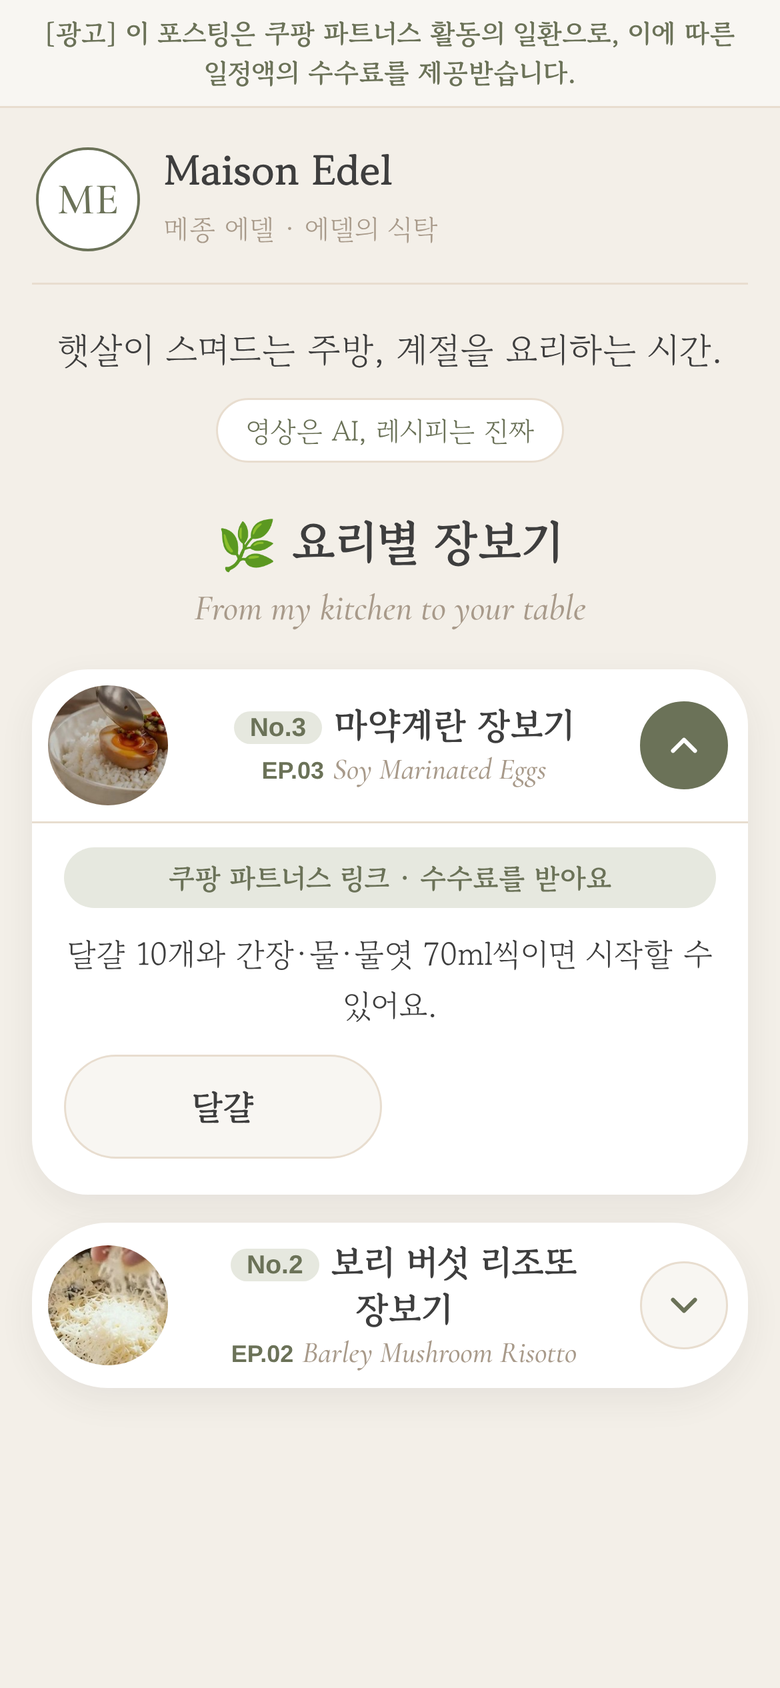
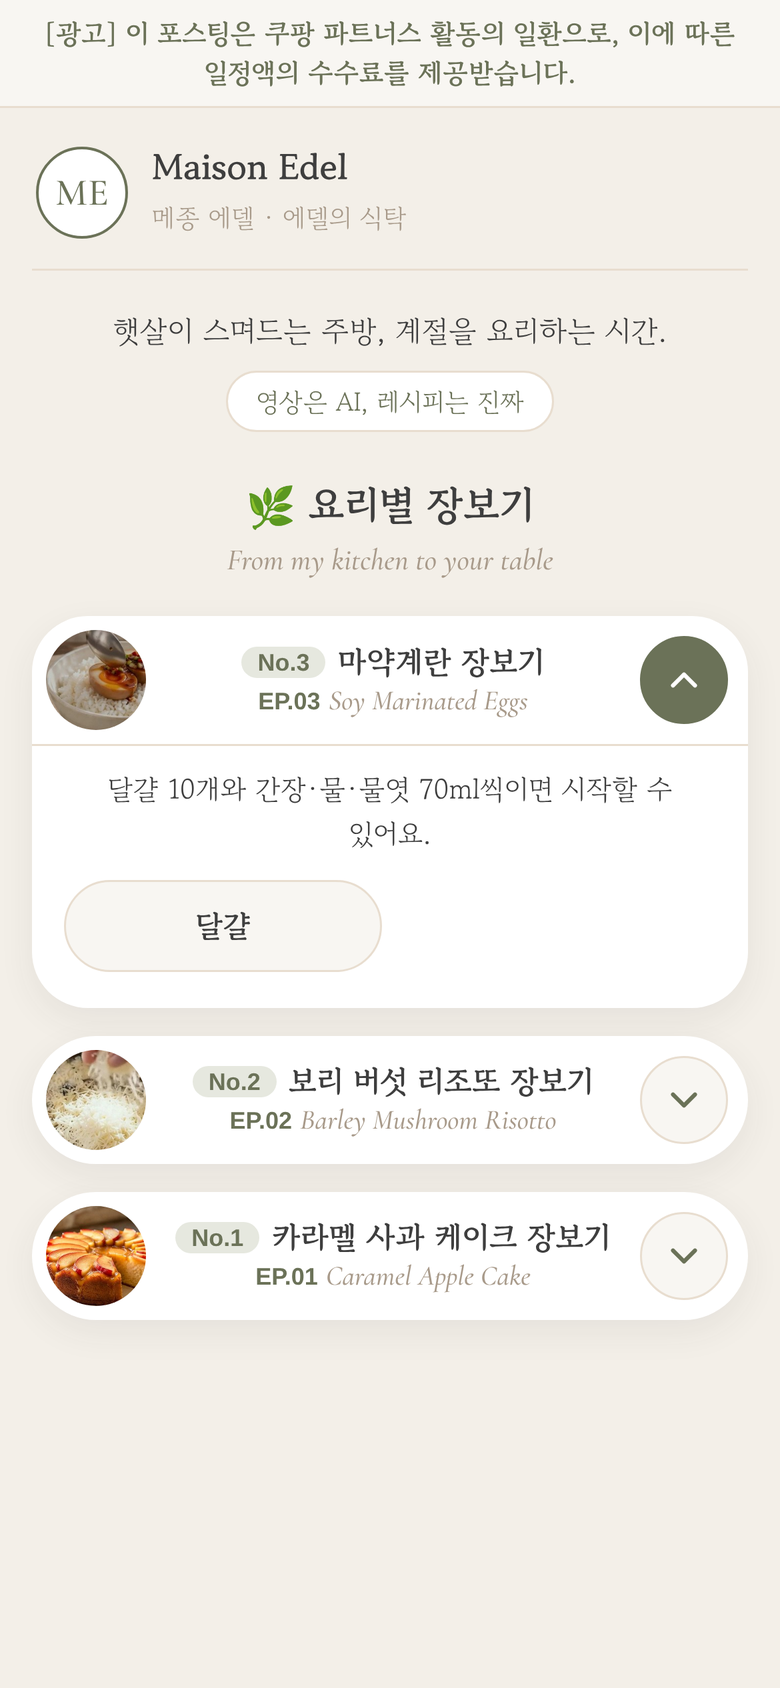
장보기 페이지 글씨 한 단계 줄이기
Claude-Session: https://claude.ai/code/session_01Ethqw5r7mmktrKzGmpSNVy

Changed region(s): [[0.0308, 0.1848, 0.9538, 0.8318], [0.0308, 0.0924, 0.5538, 0.154]]

diff --git a/company/초안/메종에델-장보기/index.html b/company/초안/메종에델-장보기/index.html
@@ -27,7 +27,7 @@
   body {
     margin: 0; color: var(--charcoal); background: var(--page);
     font-family: "Gowun Batang", "Apple SD Gothic Neo", "Malgun Gothic", serif;
-    font-size: 18px; line-height: 1.6; word-break: keep-all;
+    font-size: 16px; line-height: 1.6; word-break: keep-all;
   }
   a { color: inherit; }
   .en { font-family: "Cormorant Garamond", Georgia, serif; font-style: italic; }
@@ -45,18 +45,18 @@
 
   /* 이름 줄 */
   .head { display: flex; align-items: center; gap: 12px; padding: 18px 2px 14px; border-bottom: 1px solid var(--beige); }
-  .mark { flex: none; width: 52px; height: 52px; border-radius: 50%; background: var(--white);
+  .mark { flex: none; width: 46px; height: 46px; border-radius: 50%; background: var(--white);
           font-family: "Cormorant Garamond", Georgia, serif; font-style: normal; font-weight: 500; line-height: 1; letter-spacing: .02em; text-indent: .02em;
           border: 1.5px solid var(--olive); display: flex; align-items: center; justify-content: center;
-          color: var(--olive); font-size: 22px; }
+          color: var(--olive); font-size: 19px; }
   .head .name { flex: 1; }
-  .head .name b { display: block; font-size: 21px; line-height: 1.25; }
-  .head .name span { font-size: 14px; color: var(--taupe); }
+  .head .name b { display: block; font-size: 18px; line-height: 1.25; }
+  .head .name span { font-size: 13px; color: var(--taupe); }
 
   .intro { text-align: center; padding: 18px 0 6px; }
   .intro p { margin: 0; }
-  .intro .slogan { font-size: 18px; }
-  .intro .ai { display: inline-block; margin-top: 10px; font-size: 14px; white-space: nowrap; color: var(--olive);
+  .intro .slogan { font-size: 15px; }
+  .intro .ai { display: inline-block; margin-top: 8px; font-size: 13px; white-space: nowrap; color: var(--olive);
                background: var(--white); border: 1px solid var(--beige); border-radius: 999px; padding: 4px 14px; }
 
   /* 카드 공통: 흰 카드, 크게 둥근 모서리, 엷은 그림자 */
@@ -65,36 +65,36 @@
 
   /* 요리별 장보기 */
   .shop-head { text-align: center; margin-top: 14px; }
-  .shop-head h2 { font-size: 24px; margin: 0; }
-  .shop-head .en { color: var(--taupe); font-size: 18px; margin: 0; }
+  .shop-head h2 { font-size: 20px; margin: 0; }
+  .shop-head .en { color: var(--taupe); font-size: 15px; margin: 0; }
 
   /* 요리 블록: 알약 모양 (왼쪽 동그란 작은 사진 + 가운데 요리 이름 + 오른쪽 ⌄), 누르면 아래로 재료 버튼이 펼쳐짐 */
   .dish { overflow: hidden; border-radius: 38px; }
   .dish[open] { border-radius: 28px; }
   .dish summary { list-style: none; cursor: pointer; display: flex; align-items: center; gap: 10px;
-                  min-height: 76px; padding: 8px 10px 8px 8px; -webkit-tap-highlight-color: transparent; }
+                  min-height: 64px; padding: 7px 10px 7px 7px; -webkit-tap-highlight-color: transparent; }
   .dish summary::-webkit-details-marker { display: none; }
-  .dish .thumb { flex: none; width: 60px; height: 60px; border-radius: 50%; overflow: hidden; background: var(--ivory); }
+  .dish .thumb { flex: none; width: 50px; height: 50px; border-radius: 50%; overflow: hidden; background: var(--ivory); }
   .dish .thumb img { width: 100%; height: 100%; object-fit: cover; display: block; }
   .dish .tt { flex: 1; text-align: center; line-height: 1.3; }
-  .dish .tt b { display: block; font-size: 18px; }
-  .dish .sub { display: block; font-size: 14px; color: var(--taupe); }
+  .dish .tt b { display: block; font-size: 15.5px; }
+  .dish .sub { display: block; font-size: 13px; color: var(--taupe); }
   .dish .sub .ep { font-family: Arial, sans-serif; font-size: 12px; font-weight: 700; color: var(--olive); }
-  .dish .sub .en { font-size: 15px; }
+  .dish .sub .en { font-size: 14px; }
   .dish .chev { flex: none; width: 44px; height: 44px; border-radius: 50%; background: var(--ivory); border: 1px solid var(--beige);
                 display: flex; align-items: center; justify-content: center; color: var(--olive); transition: transform .25s ease; }
   .dish .chev svg { width: 22px; height: 22px; }
   .dish[open] .chev { transform: rotate(180deg); background: var(--olive); border-color: var(--olive); color: var(--white); }
   .dish .body { padding: 0 16px 18px; border-top: 1px solid var(--beige); }
-  .dish .say { margin: 10px 0 12px; font-size: 16px; text-align: center; }
+  .dish .say { margin: 10px 0 12px; font-size: 14px; text-align: center; }
   .items { list-style: none; margin: 0; padding: 0; display: grid; grid-template-columns: 1fr 1fr; gap: 8px; }
   .item { display: flex; flex-direction: column; align-items: center; justify-content: center; text-align: center;
-          min-height: 52px; padding: 6px 10px; border-radius: 999px;
+          min-height: 46px; padding: 6px 10px; border-radius: 999px;
           background: var(--ivory); border: 1px solid var(--beige);
-          text-decoration: none; font-size: 17px; font-weight: 700; line-height: 1.25; }
-  .items-empty { margin: 0; text-align: center; font-size: 15px; color: var(--taupe); }
+          text-decoration: none; font-size: 15px; font-weight: 700; line-height: 1.25; }
+  .items-empty { margin: 0; text-align: center; font-size: 14px; color: var(--taupe); }
 
-  .dish .tt b .no { font-family: Arial, sans-serif; font-size: 13px; font-weight: 700; color: var(--olive);
+  .dish .tt b .no { font-family: Arial, sans-serif; font-size: 12px; font-weight: 700; color: var(--olive);
                     background: var(--olive-soft); border-radius: 999px; padding: 1px 8px; margin-right: 6px; vertical-align: 2px; }
   .dish { scroll-margin-top: 80px; }
   .dish.flash { animation: flash 1.8s ease-out 1; }
@@ -104,8 +104,8 @@
                   background: var(--white); color: var(--charcoal); font: inherit; font-size: 16px; outline: none; }
   .search input:focus { border-color: var(--olive); }
   .more { display: block; margin: 14px auto 0; min-height: 48px; padding: 0 26px; border-radius: 999px;
-          border: 1px solid var(--olive); background: transparent; color: var(--olive); font: inherit; font-size: 16px; font-weight: 700; cursor: pointer; }
-  .none { text-align: center; color: var(--taupe); font-size: 15px; margin: 16px 0 0; }
+          border: 1px solid var(--olive); background: transparent; color: var(--olive); font: inherit; font-size: 15px; font-weight: 700; cursor: pointer; }
+  .none { text-align: center; color: var(--taupe); font-size: 14px; margin: 16px 0 0; }
   [hidden] { display: none !important; }
   @media (max-width: 340px) { .items { grid-template-columns: 1fr; } }
 </style>

diff --git a/company/업무일지.md b/company/업무일지.md
@@ -79,3 +79,4 @@
 | 2026-11-02 | 장보기 페이지 공개 방법을 아티팩트로 바꿈(사장 지시): 7판을 HTML 한 장으로 합쳐 아티팩트에 올림(나만 보기, https://claude.ai/artifact/EuefBfEYmVq4vf1yCQvFWe). 회장님 지시로 펼친 목록 쿠팡 문구 줄 뺌 → 2번째 판. 막힌 점: 지금 아티팩트는 공유를 켜도 Claude 로그인한 사람만 열림, 공유 설정은 아이폰 앱에서 못 바꿈 | 운영팀 | 올림(비공개) · 손님 공개는 사장 결정 대기 |
 | 2026-11-02 | 장보기에 EP.01 카라멜 사과 케이크 다시 넣음(회장님 본인 레시피 확인, No.1, 재료 4개 링크 비움, 작은 사진 0원) | 커머스팀 | 회장님 링크 → 반영 |
 | 2026-11-02 | 메종에델 장보기 페이지 공개 완료 기록(결재 41): https://maison-edel.netlify.app (넷리파이 + 비공개 저장소 maison-edel). 결재함·진행중·자산목록·근거-링크목록 7장·DM 답장틀에 진짜 주소 반영, 넷리파이 GitHub 권한 정리는 나중(급하지 않음) | 운영팀 | 공개 완료 · 남은 것: 프로필 링크(회장님), 인스타 안 #3 확인, 남은 재료 링크(회장님), 쿠팡 채널 등록 확인(커머스팀) |
+| 2026-11-02 | 장보기 페이지 글씨 한 단계 줄임(본문 16, 제목 20, 이름 18, 요리 15.5, 재료 15px, 띠 13.5px 그대로), 원본·공개본 같이 고침 | 커머스팀 | 사장 확인 뒤 공개본 푸시 |
